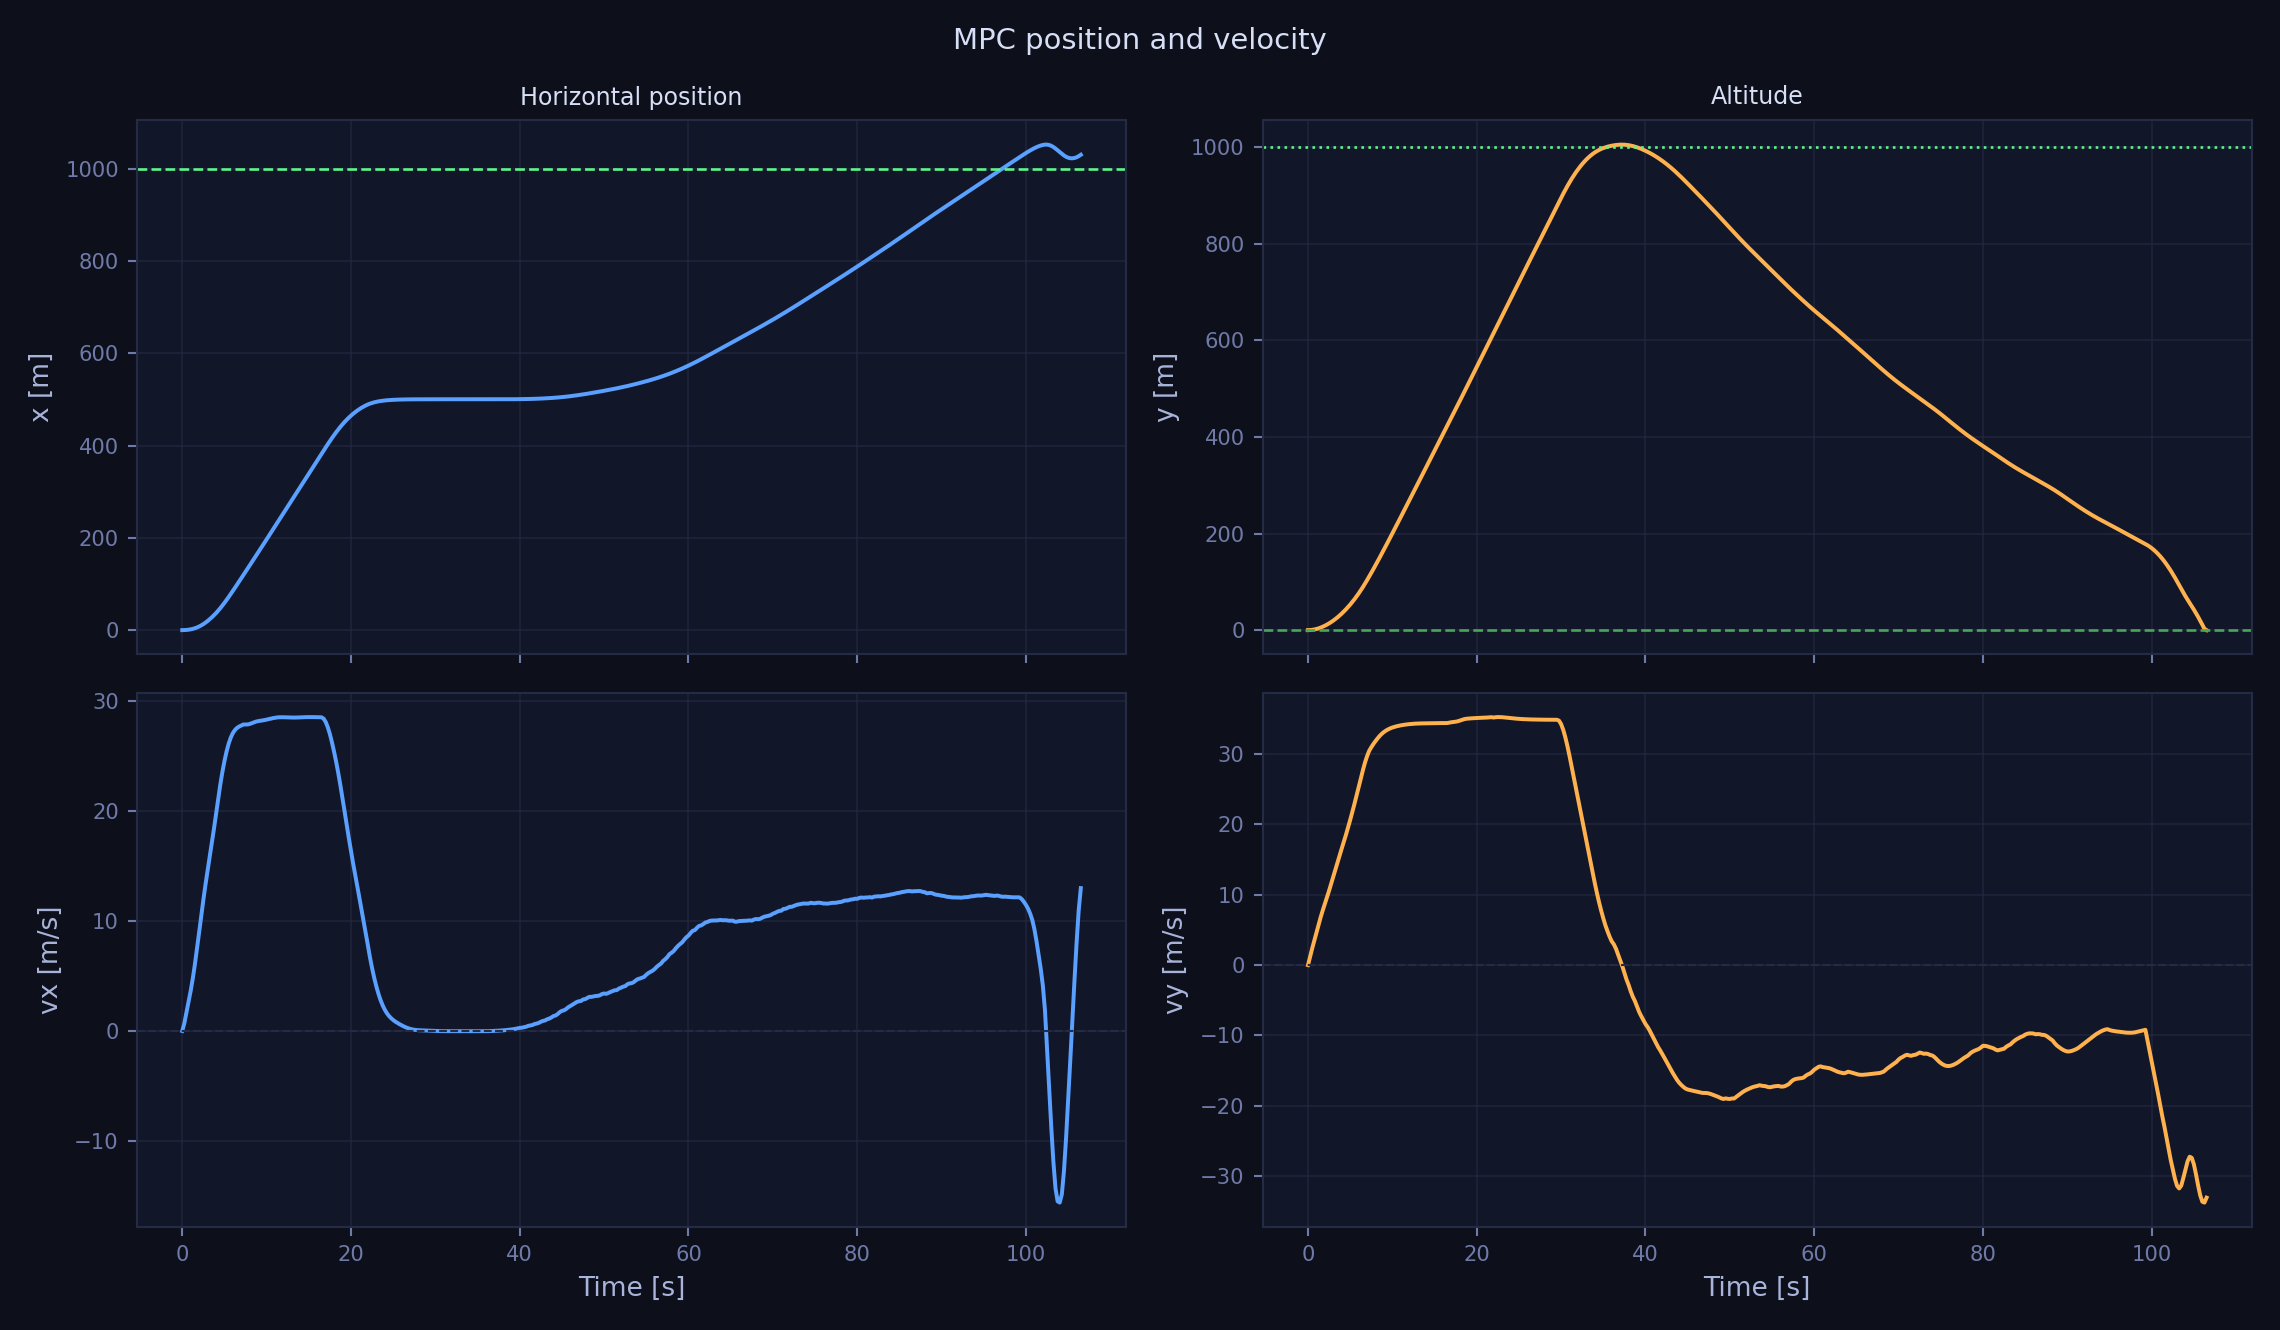
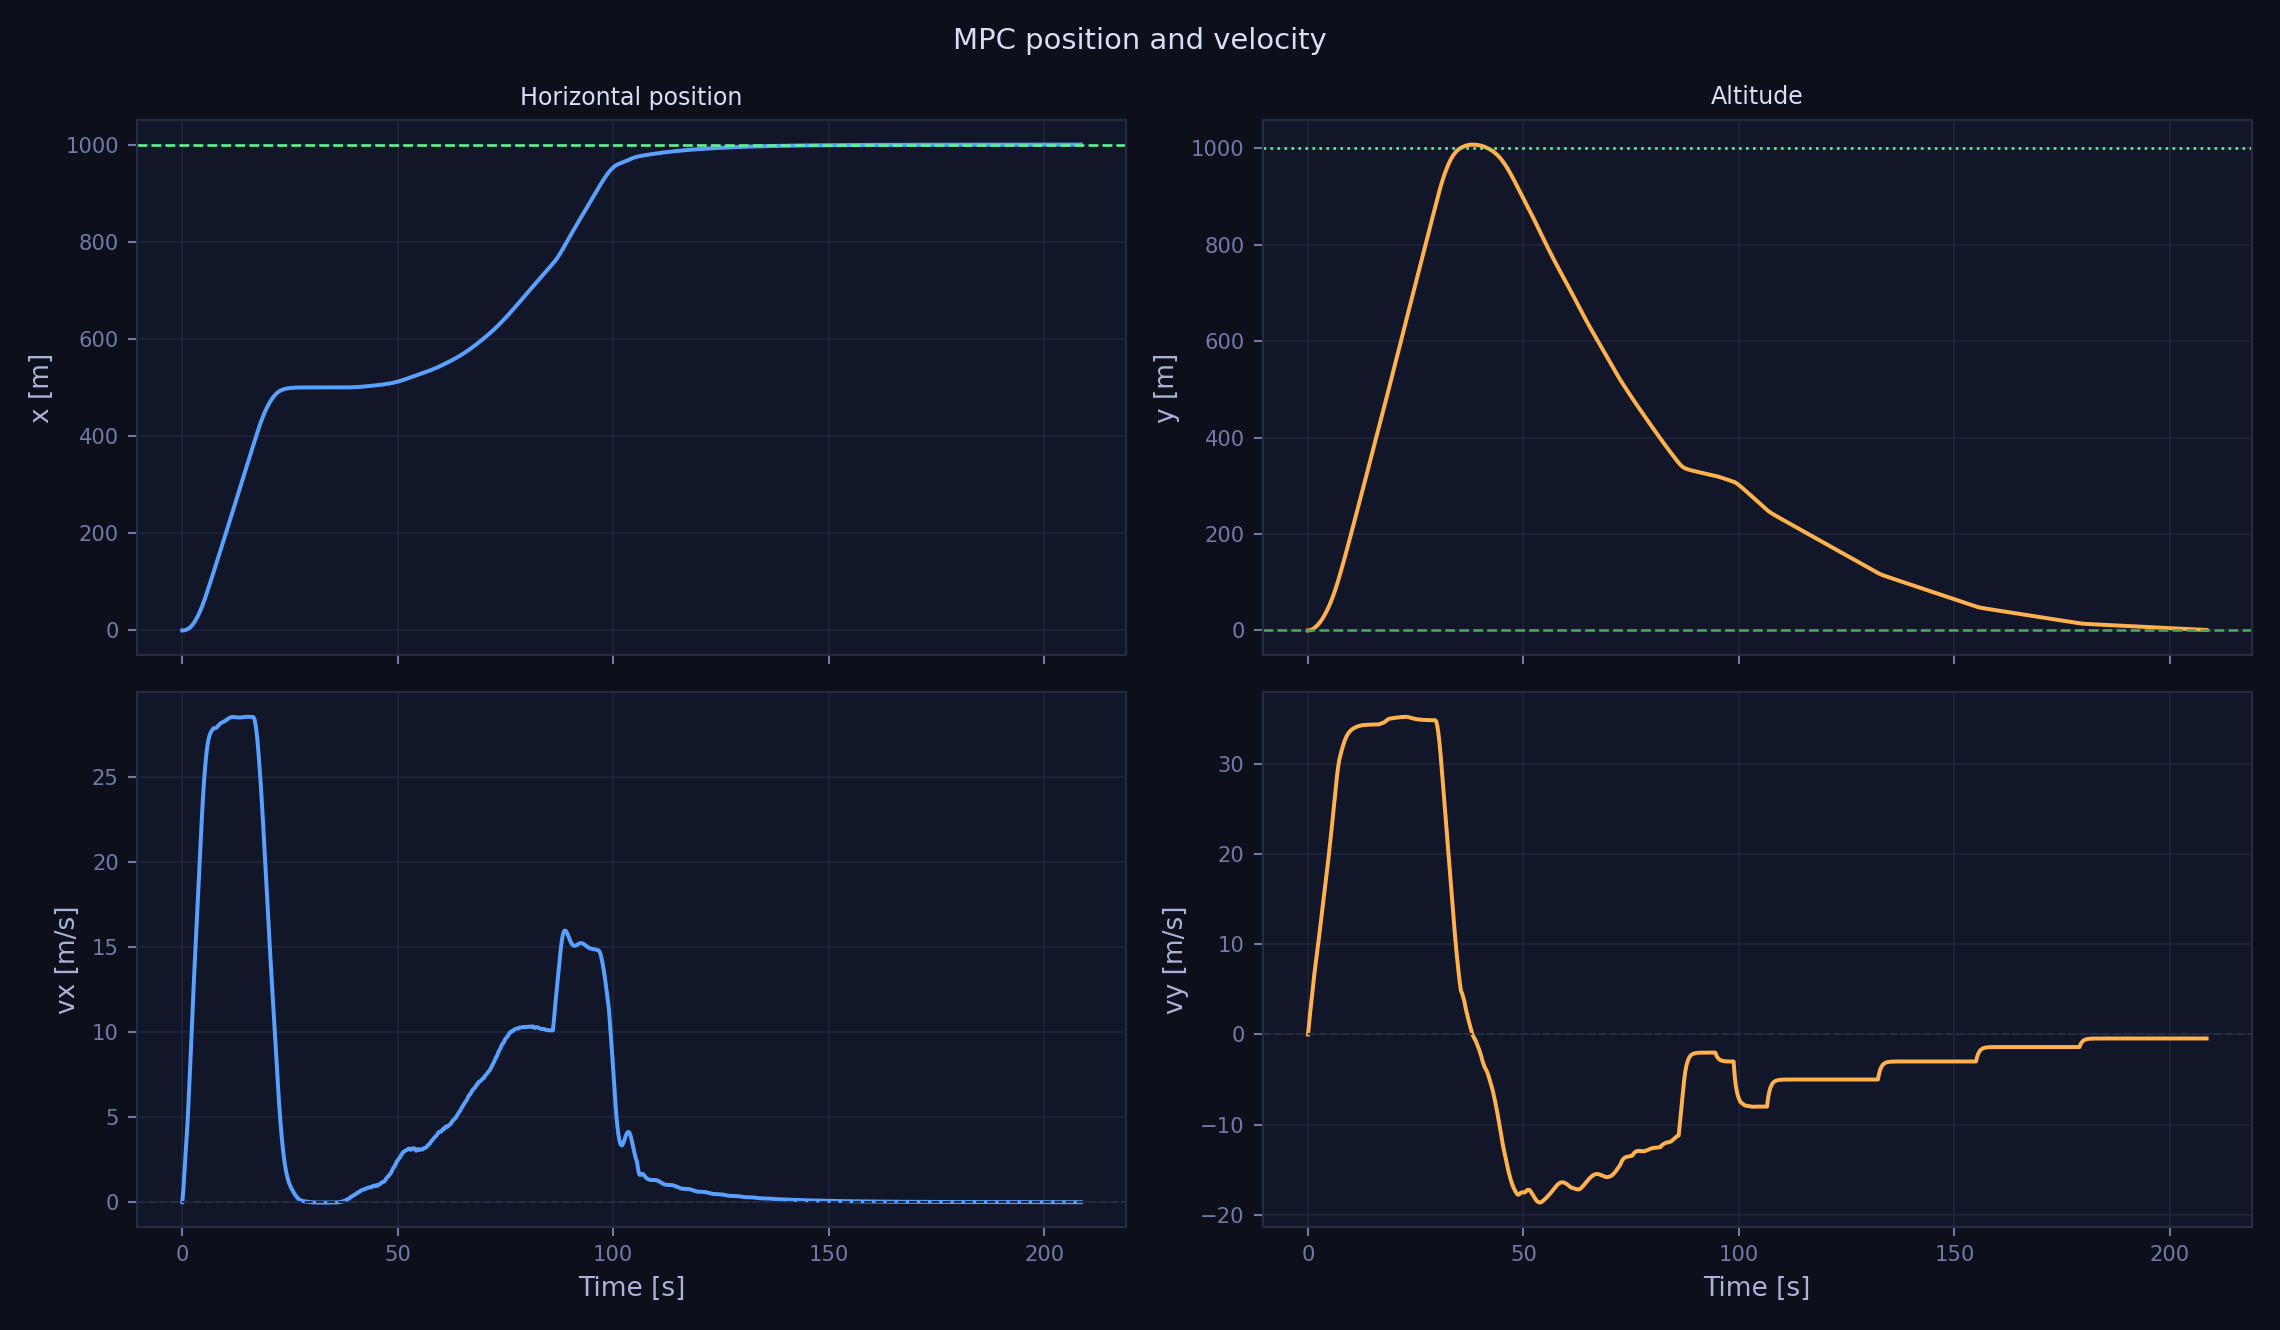
Update MPC mission with speed limit and touchdown handling

diff --git a/src/mpc_controller.py b/src/mpc_controller.py
@@ -589,16 +589,18 @@ class MPCController:
 
 
     def _apply_terminal_assist(self, u0: np.ndarray, state: np.ndarray, params: RocketParams) -> np.ndarray:
-        """Terminal landing stabilizer used by the improved hybrid mode.
+        """Terminal guidance with horizontal braking, overshoot recovery and speed limiting.
 
-        The nonlinear MPC is still available and is used for the ascent phase.
-        In descent, the educational single-shooting MPC can be too myopic for a
-        clean touchdown, so this optional layer behaves like a terminal guidance
-        law: it regulates x, vx, y, vy, theta and omega to the landing state.
-        Set ``assist_override_descent: false`` in the config to run pure MPC.
+        This assist is intentionally more conservative than the basic terminal
+        guidance.  It starts far above the final point, reduces the allowed
+        horizontal velocity as the vehicle approaches the final altitude, and
+        actively brakes if the vehicle has already passed x_land.  This prevents
+        the common failure mode where the rocket overshoots the pad and then
+        slides along the ground at high speed.
         """
         if (not self.landing_assist) or self.phase != "descent":
             return u0
+
         y = float(state[IDX_Y])
         y_rel = y - self.mission.y_land
         if y_rel > self.assist_altitude:
@@ -610,36 +612,73 @@ class MPCController:
         theta = wrap_angle(float(state[IDX_PHI]))
         omega = float(state[IDX_OMEGA])
         delta = float(state[IDX_DELTA])
+
         x_err = self.mission.x_land - x
-
-        # Horizontal guidance: for the large mission, allow meaningful lateral
-        # motion but keep the desired velocity below v_max.
-        vmax = max(float(self.mission.v_max), 1.0)
-        vx_des = float(np.clip(0.25 * x_err, -0.60 * vmax, 0.60 * vmax))
-
-        # Vertical guidance: drive the rocket to the requested final altitude.
-        # If y_land=0 this behaves like landing guidance. If y_land>0, the
-        # terminal point is an in-air hover target.
         y_err = self.mission.y_land - y
-        vy_des = float(np.clip(0.25 * y_err, -0.70 * vmax, 0.30 * vmax))
 
-        if abs(x_err) > 80.0:
-            # Do not spend all velocity vertically while still far from target x.
-            vy_des = max(vy_des, -0.45 * vmax)
+        vmax = max(float(self.mission.v_max), 1.0)
 
-        vx_des, vy_des = self._limit_desired_velocity(vx_des, vy_des, fraction=0.88)
+        # near = 0 high above the final point, near = 1 close to the final point.
+        near = float(np.clip(1.0 - max(y_rel, 0.0) / max(self.assist_altitude, 1e-9), 0.0, 1.0))
 
-        ax_cmd = float(np.clip(0.70 * (vx_des - vx), -4.0, 4.0))
-        ay_cmd = float(np.clip(0.80 * (vy_des - vy), -6.0, 6.0))
+        # Far away from the final point the rocket may travel laterally, but as
+        # it approaches the final altitude the allowed lateral velocity shrinks.
+        vx_limit_far = min(0.32 * vmax, 16.0)
+        vx_limit_near = min(0.04 * vmax, 1.6)
+        vx_limit = (1.0 - near) * vx_limit_far + near * vx_limit_near
+
+        # Desired lateral velocity automatically changes sign after overshoot.
+        vx_des = float(np.clip(0.16 * x_err, -vx_limit, vx_limit))
+
+        # Strong damping around the final x-coordinate.
+        ax_cmd = 0.85 * (vx_des - vx)
+        if abs(x_err) < 60.0:
+            ax_cmd += -0.45 * vx
+        if abs(x_err) < 25.0:
+            ax_cmd += -0.75 * vx
+
+        # If x_err and vx have opposite signs, we are moving away from the target
+        # or have overshot it.  Brake more aggressively.
+        if x_err * vx < 0.0:
+            ax_cmd += -1.10 * vx
+
+        ax_cmd = float(np.clip(ax_cmd, -3.2, 3.2))
+
+        # Vertical guidance.  Do not drop too fast if the x-error is still large.
+        if y_rel > 250.0:
+            vy_des = -8.0
+        elif y_rel > 120.0:
+            vy_des = -5.0
+        elif y_rel > 50.0:
+            vy_des = -3.0
+        elif y_rel > 15.0:
+            vy_des = -1.4
+        else:
+            vy_des = -0.45
+
+        # For an in-air terminal point, or if the vehicle is below the requested
+        # final altitude, climb gently back toward y_land.
+        if y_err > 0.0:
+            vy_des = min(2.0, 0.35 * y_err)
+
+        # When the vehicle is still far from final x, keep descent slower so it
+        # has time to correct the horizontal error before contact.
+        if abs(x_err) > 120.0:
+            vy_des = max(vy_des, -2.0)
+        elif abs(x_err) > 60.0:
+            vy_des = max(vy_des, -3.0)
+
+        vy_des = float(np.clip(vy_des, -0.35 * vmax, 0.15 * vmax))
+        vx_des, vy_des = self._limit_desired_velocity(vx_des, vy_des, fraction=0.75)
+
+        ay_cmd = float(np.clip(1.25 * (vy_des - vy), -6.0, 6.0))
         ax_cmd, ay_cmd = self._apply_speed_governor(ax_cmd, ay_cmd, vx, vy)
 
-        # Convert acceleration requests to thrust and nozzle command.  The pitch
-        # damping terms are deliberately stronger than the lateral term near the
-        # ground so touchdown attitude remains close to vertical.
         F_nom = params.mass * (params.g + ay_cmd)
         denom = max(math.cos(theta) - delta * math.sin(theta), 0.50)
         F_assist = float(np.clip(F_nom / denom, params.F_min, params.F_max))
-        dcmd_assist = params.mass * ax_cmd / max(F_assist, 1.0) - 0.65 * theta - 0.25 * omega
+
+        dcmd_assist = params.mass * ax_cmd / max(F_assist, 1.0) - 0.78 * theta - 0.38 * omega
         dcmd_assist = float(np.clip(dcmd_assist, -params.delta_max_cmd, params.delta_max_cmd))
 
         blend = float(np.clip(self.assist_blend, 0.0, 1.0))

diff --git a/src/simulation.py b/src/simulation.py
@@ -166,7 +166,7 @@ def simulate(cfg: Dict) -> SimulationResult:
     if terminal_success:
         termination_reason = "successful_landing" if final_target_is_ground else "successful_terminal_point"
     elif contact_time is not None:
-        termination_reason = "hard_or_off_target_landing"
+        termination_reason = "failed_touchdown"
     elif controller.phase == "ascent":
         termination_reason = "time_limit_before_descent"
     else:
